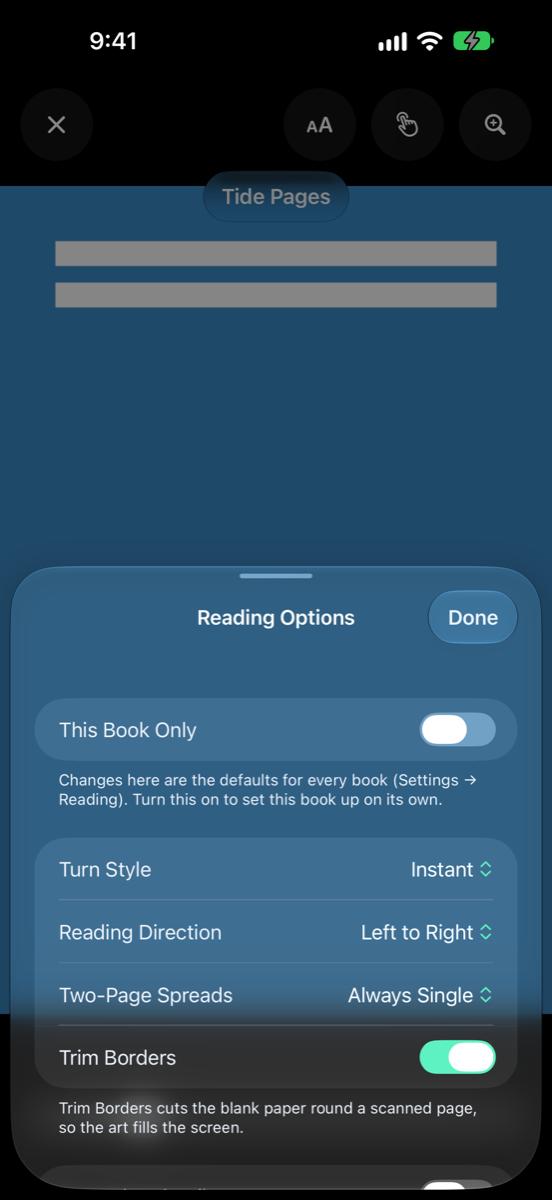
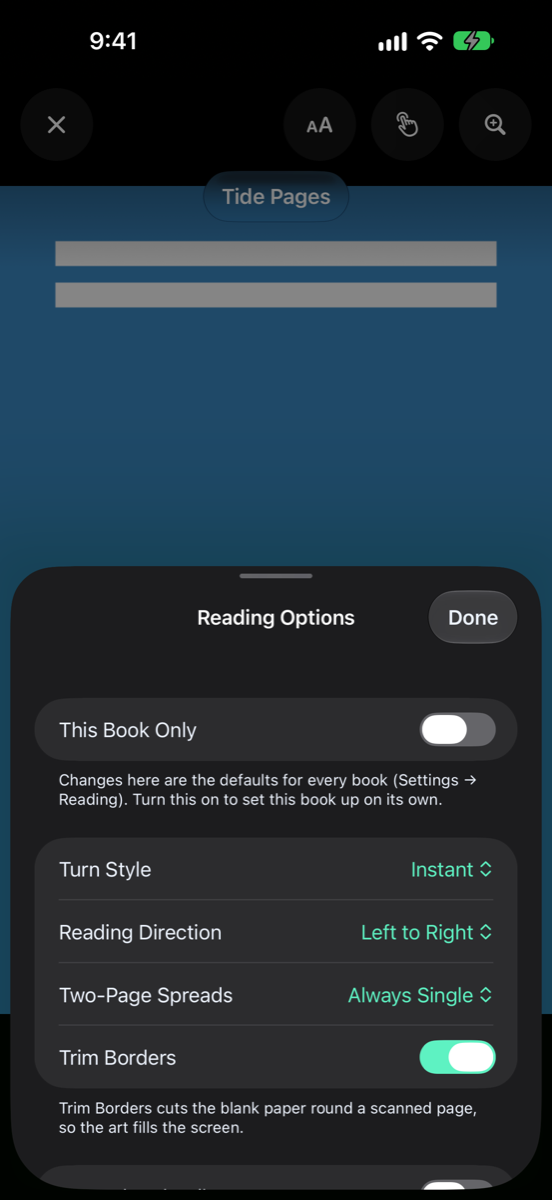
Publish the guide (from 62cad75)

diff --git a/Reader.md b/Reader.md
@@ -74,7 +74,7 @@ Scanned comics and manga often have blank paper round the art. **Trim Borders** 
 <div class="shot-variant shot-duo-open-side"><img src="images/duo-open-side/read-options.png" alt="The Reading Options sheet, on the iPhone Duo, open on its side" loading="lazy"><div class="shot-label">iPhone Duo — open, on its side</div></div>
 </div>
 
-Tap **Reading Options** in the controls to change how this kind of book reads, without leaving it:
+Tap **Reading Options** in the controls to change how this kind of book reads, without leaving it. It opens as a solid sheet, so a bright page doesn't show through it. On the iPhone Duo on its side it opens to the right of the fold, and a tap on the page to its left closes it.
 
 - **Turn Style**, **Reading Direction** (**Automatic**, **Left to Right** or **Right to Left**), **Two-Page Spreads** and **Trim Borders**.
 - **Page Thumbnails** adds a row of the book's pages, small, by the timeline: scroll along it and tap one to jump there.

diff --git a/whats-new.md b/whats-new.md
@@ -12,6 +12,25 @@ The highlights of each MK Plus update since public TestFlight testing began (ver
 
 ## November 2026
 
+### Reading Options you can read on any page
+
+_Version 1.353.0 · 13 November 2026_
+
+- Reading Options is a solid sheet: a bright page no longer shows through it.
+- On the iPhone Duo on its side, it opens to the right of the fold.
+
+<img src="images/duo-open-side/read-options.png" width="300" alt="Reading Options on the iPhone Duo open on its side: a solid panel to the right of the fold, the comic page on the left">
+
+<details markdown="1">
+<summary>Everything in 1.353.0</summary>
+
+**Changed**
+
+- Reading Options opens as a solid sheet, so its rows read clearly over a bright page.
+- On the iPhone Duo on its side, Reading Options opens to the right of the fold; tap the page on the left to close it.
+
+</details>
+
 ### Servers and Downloads match Home
 
 _Version 1.352.0 · 12 November 2026_
